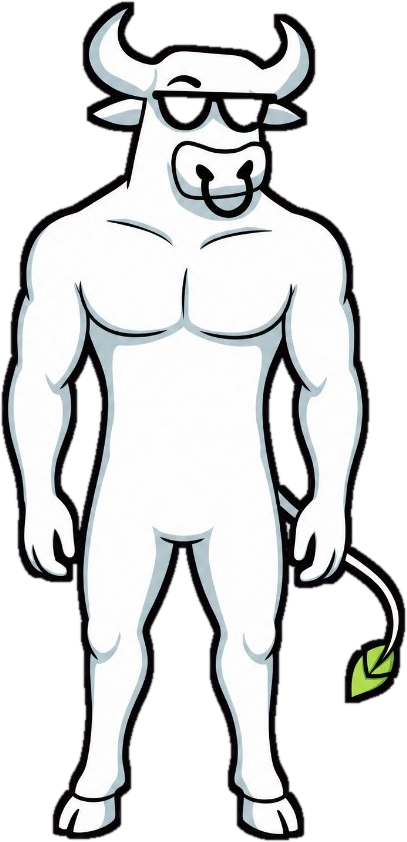
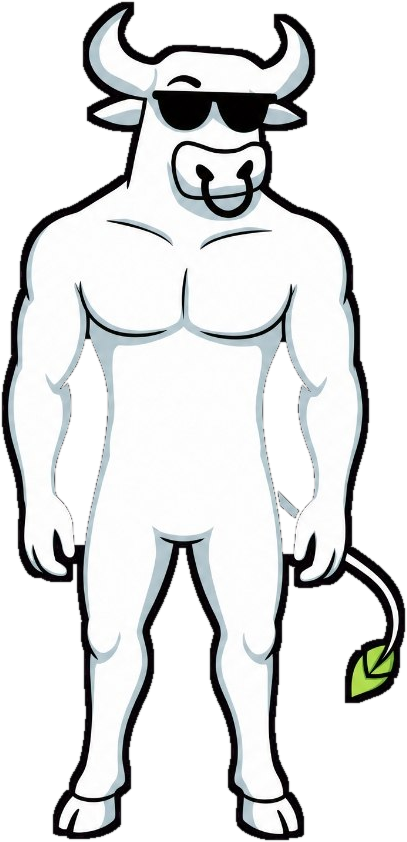
Fix the cutout matte; drop a false finding; declare the mobile gap
- shades and nose ring stayed transparent because the flood fill walked
  through the character's own outline; matte now severs that bridge by
  erosion and reclaims only the limb gaps, so interior blacks stay black
- removed P20: the copy toast and the touch-visible Save button both
  already work, verified against the live build
- narrowed P18 to what is actually unhandled (.reveal is outside the
  existing prefers-reduced-motion block; the hero is already covered)
- scoped the carousel arrow finding to desktop; a mobile dock exists
- added a section stating the review is desktop-only and why that matters

diff --git a/index.html b/index.html
@@ -4,7 +4,7 @@
 <meta charset="utf-8">
 <meta name="viewport" content="width=device-width, initial-scale=1">
 <meta name="robots" content="noindex, nofollow">
-<meta name="description" content="Pre-launch review of the Bullcoin feat-brand-lore build: 18 findings, a hero mockup, and the on-canon art to swap in.">
+<meta name="description" content="Pre-launch review of the Bullcoin feat-brand-lore build: 17 desktop findings, a hero mockup, and the on-canon art to swap in.">
 <link rel="icon" type="image/png" href="img/canon-model-cut.png">
 <title>Bullcoin Site Punch List</title>
 <link rel="stylesheet" href="https://fonts.googleapis.com/css2?family=Shrikhand&family=Baloo+2:wght@400;500;600;700&family=JetBrains+Mono:wght@400;600&display=swap">
@@ -559,24 +559,24 @@
   <div class="wrap">
     <p class="eyebrow">Pre-launch review · branch feat-brand-lore</p>
     <h1>Bullcoin Site Punch List</h1>
-    <p class="standfirst">Eighteen things to fix before this replaces the live site, ordered by what costs us money and reach — plus the on-canon art to swap in.</p>
+    <p class="standfirst">Seventeen things to fix before this replaces the live site, ordered by what costs us money and reach — plus the on-canon art to swap in.</p>
     <dl class="facts">
       <div><dt>Reviewed</dt><dd>7 Sep 2026</dd></div>
       <div><dt>Build</dt><dd>bulls-website-git-feat-brand-lore</dd></div>
       <div><dt>Checked at</dt><dd>1728 × 963, Chrome</dd></div>
-      <div><dt>Findings</dt><dd>5 blockers · 7 major · 6 polish</dd></div>
+      <div><dt>Findings</dt><dd>5 blockers · 7 major · 5 polish</dd></div>
     </dl>
   </div>
 </header>
 
 <div class="statusbar">
   <div class="statusbar-in">
-    <span class="tally"><span class="meter"><i id="meterFill"></i></span><span id="tallyText">0 of 18 cleared</span></span>
+    <span class="tally"><span class="meter"><i id="meterFill"></i></span><span id="tallyText">0 of 17 cleared</span></span>
     <div class="filters" role="group" aria-label="Filter findings">
-      <button type="button" data-filter="all" aria-pressed="true">All 18</button>
+      <button type="button" data-filter="all" aria-pressed="true">All 17</button>
       <button type="button" data-filter="blocker" aria-pressed="false">Blockers 5</button>
       <button type="button" data-filter="major" aria-pressed="false">Major 7</button>
-      <button type="button" data-filter="polish" aria-pressed="false">Polish 6</button>
+      <button type="button" data-filter="polish" aria-pressed="false">Polish 5</button>
       <button type="button" data-filter="open" aria-pressed="false">Still open</button>
     </div>
   </div>
@@ -822,6 +822,7 @@ cursor below it       (y≈670)  5 wheel ticks → ~470 px of page scroll</pre>
         <h3>Carousel arrows are too small, sit on top of the art, and the disabled one looks broken</h3>
         <p>Both arrows measure 38×38 px — under the 44 px minimum for a thumb. They're positioned over the third card rather than beside the track, so they cover the art. And the "previous" arrow in its disabled state is a dark grey circle on a light ground, which reads as a rendering fault rather than "you're at the start".</p>
         <p>There's also no dot row or counter, so in a seven-item set there's no way to know how far through you are or that there's more than one screen of memes.</p>
+        <p><em>Desktop only.</em> There's a separate <code>.carousel-mobile-dock</code> in the CSS, so the touch controls are built differently — I couldn't render mobile to check them (see the note at the end).</p>
         <p class="fix"><b>Fix</b>Take the arrows to 44 px, move them outside the track or onto the section header, give the disabled state a low-contrast outline instead of a filled dark circle, and add a dot row or an "n / 7" counter. Make sure left/right arrow keys drive it too.</p>
       </div>
     </article>
@@ -837,16 +838,6 @@ cursor below it       (y≈670)  5 wheel ticks → ~470 px of page scroll</pre>
       </div>
     </article>
 
-    <article class="item" data-sev="polish" data-id="P20">
-      <div class="bar"></div>
-      <label class="check"><input type="checkbox" data-id="P20" aria-label="Mark P20 done"><span class="box"></span></label>
-      <div class="body">
-        <div class="top"><span class="sev">Polish</span><span class="ref">P20 · feedback</span></div>
-        <h3>Confirm the "Save" and "copy address" buttons say something happened</h3>
-        <p>The Save button only appears on hover, so on touch it's invisible until tapped. And the contract pill copies on click — check that it shows a "Copied" state afterwards, because right now there's no way to tell from the button whether it worked.</p>
-        <p class="fix"><b>Fix</b>Show Save persistently on touch devices, and give both buttons a visible confirmed state for a second or two after the action.</p>
-      </div>
-    </article>
   </section>
 
   <!-- ============ BULLNOMICS ============ -->
@@ -932,8 +923,9 @@ cursor below it       (y≈670)  5 wheel ticks → ~470 px of page scroll</pre>
       <div class="body">
         <div class="top"><span class="sev">Polish</span><span class="ref">P18 · motion</span></div>
         <h3>Every section starts near-invisible and fades in on scroll</h3>
-        <p>Scroll reveals are applied to more or less everything. Scroll at any speed and you pass through sections that haven't faded in yet — during this review, "The Bull Mark", "Bullnomics", "How To Bull" and "Bullish Links" were each blank on arrival for a moment. It also means any snapshot of the page below the fold is empty.</p>
-        <p class="fix"><b>Fix</b>Keep reveals for one or two moments that earn them and let the rest of the page render at rest. Whatever stays needs a <code>prefers-reduced-motion</code> branch that shows content immediately.</p>
+        <p>Thirty elements carry a <code>.reveal</code> class. Scroll at any speed and you pass through sections that haven't faded in yet — during this review, "The Bull Mark", "Bullnomics", "How To Bull" and "Bullish Links" were each blank on arrival for a moment. With the page sitting at the top, 19 full-height blocks are already parked below full opacity waiting on an observer.</p>
+        <p>The <code>prefers-reduced-motion</code> block is real, but it only covers the hero entrance and the carousel hint — it never mentions <code>.reveal</code>. So with reduced motion on, the hero behaves and everything below it still waits to fade in.</p>
+        <p class="fix"><b>Fix</b>Add <code>.reveal</code> to the existing reduced-motion block so it resolves to full opacity there. Then keep the reveal for one or two sections that earn it and let the rest render at rest.</p>
       </div>
     </article>
   </section>
@@ -1030,6 +1022,18 @@ cursor below it       (y≈670)  5 wheel ticks → ~470 px of page scroll</pre>
     </div>
   </section>
 
+  <!-- ============ NOT COVERED ============ -->
+  <section class="area">
+    <div class="area-head"><h2>What this review misses</h2><span class="anchor">be aware</span></div>
+    <div class="note">
+      <p><strong>Everything above was checked at 1728 × 963 in desktop Chrome, and only there.</strong> The tooling I reviewed with renders at a fixed viewport, so I could not load the site at phone or tablet width. Treat all seventeen findings as desktop findings.</p>
+      <p>That is the wrong way round for this site. The traffic arrives from a Telegram message or an X post, which means a phone, in an in-app browser. That viewport is the one that matters most and it is the one I have no coverage of.</p>
+      <p>The responsive work does exist — there are breakpoints at 1020, 880, 640, 600 and 560 px, a <code>.burger</code> menu button, a dedicated <code>.carousel-mobile-dock</code>, and <code>(hover: none)</code> rules that pin the Save button visible on touch. None of it is verified.</p>
+      <p><strong>Worth a pass on a real phone before launch:</strong> the hamburger menu opening and closing, the hero at 390 px wide, whether the carousel scroll-trap in M07 is worse or better under touch, the USPTO table (12 rows of label/value that will want to stack), the four-across "How To Bull" cards, and tap-target sizes throughout.</p>
+      <p>Also unchecked: keyboard tab order and focus rings, Safari and Firefox, and in-app browsers specifically.</p>
+    </div>
+  </section>
+
   <!-- ============ CLEARED ============ -->
   <section class="area">
     <div class="area-head"><h2>Already right</h2><span class="anchor">no action</span></div>
@@ -1044,13 +1048,16 @@ cursor below it       (y≈670)  5 wheel ticks → ~470 px of page scroll</pre>
       <li>All four Bullish Links resolve: X, Telegram, the Dexscreener pair and the Blockscout token page.</li>
       <li>Every "Save" link points at a real file that downloads.</li>
       <li>The type pairing — Shrikhand over Baloo 2 — is doing real work. Don't touch it.</li>
+      <li>Copying the contract address shows a "Contract address copied" toast. Tested, works.</li>
+      <li>The Save button is pinned visible under <code>(hover: none)</code>, so touch users can see it.</li>
+      <li>The hero entrance animation has a proper <code>prefers-reduced-motion</code> branch.</li>
     </ul>
   </section>
 
 </main>
 
 <footer class="wrap">
-  <p>Reviewed at 1728 × 963 in Chrome on macOS. Findings verified against the DOM and the network, not from screenshots alone.</p>
+  <p>Reviewed at 1728 × 963 in Chrome on macOS — desktop only. Findings verified against the DOM, the CSS and the network, not from screenshots alone.</p>
   <p>Ticks are remembered in your own browser, so you can work down the list across sittings.</p>
 </footer>
 
